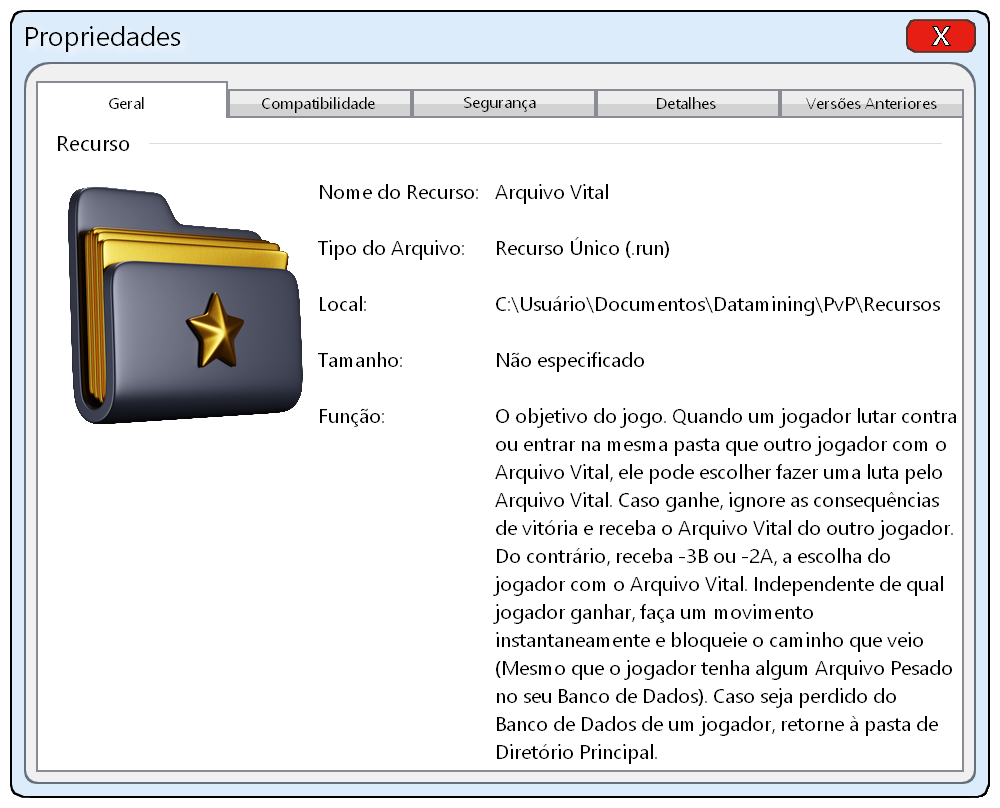
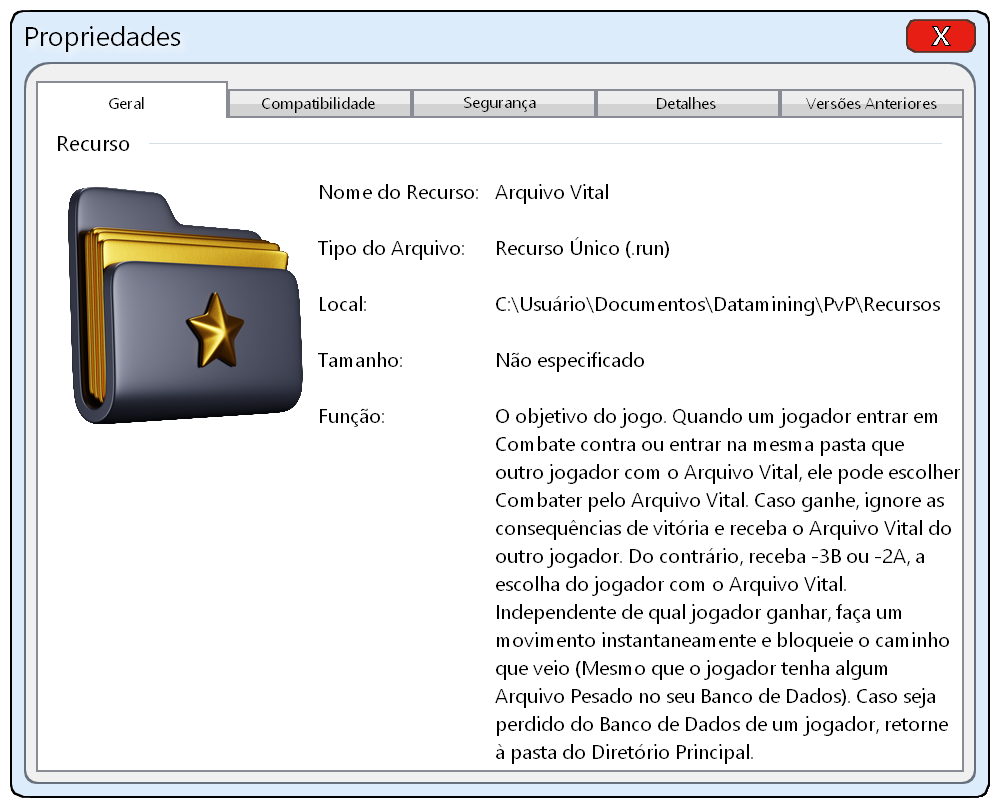
Add files via upload

Changed region(s): [[0.496, 0.495, 0.961, 0.9592]]

diff --git a/Regras - Datamining.html b/Regras - Datamining.html
@@ -199,7 +199,7 @@
                         <p>• <b>Objetivo:</b> Proteger o <strong>Arquivo Vital</strong>, que está na pasta de Diretório Principal, e levá-lo até sua Zona Segura. Vence o jogador que iniciar seu turno na própria pasta de Zona Segura com o Arquivo Vital no seu <strong>Banco de Dados</strong>.</p>
 						<p>• <b>Jogadores:</b> Um jogador é o <strong>Sistema Operacional (SO)</strong> sendo corrompido e os outros são <strong>Antivírus</strong> concorrentes entre si. <i><u>(Mínimo de 3 e máximo de 8 jogadores Antivírus).</u></i></p>
                         <p>• <b>SO:</b> Apenas o SO vê a <strong>Tabela Mestra de Diretórios (TMD)</strong>. Ele informa as direções possíveis e a distância após a escolha do jogador sobre qual caminho seguir.</p>
-						<p>• <b>Antivírus:</b> Os jogadores Antivírus têm como ações: realizar um movimento, usar um <strong>Recurso</strong>, usar seus <strong>Patches</strong>, realizar um <strong>Combate</strong> ou rodar uma <strong>Roleta</strong>. <i><u>(Não pode repetir uma ação no mesmo turno normalmente).</u></i></p>
+						<p>• <b>Antivírus:</b> Os jogadores Antivírus têm como ações: realizar um <strong>Movimento</strong>, usar um <strong>Recurso</strong>, usar seus <strong>Patches</strong>, realizar um <strong>Combate</strong> ou rodar uma <strong>Roleta</strong>. <i><u>(Não pode repetir uma ação no mesmo turno normalmente).</u></i></p>
                     </div>
                     <img src="Regras PvP (1).png" class="imagem-regra" onclick="expandirImagem(this.src)">
                 </div>
@@ -367,9 +367,9 @@
                 <div class="regra-com-imagem">
                     <div class="texto-regra">
                         <p>• <b>Objetivo:</b> Proteger o <strong>Arquivo Vital</strong>, que está na pasta de Diretório Principal, e levá-lo até sua Zona Segura. O grupo vence se todos iniciarem a rodada na Zona Segura com o Arquivo Vital em seu <strong>Banco de Dados</strong>.</p>
-						<p>• <b>Jogadores:</b> Um jogador é o <strong>Sistema Operacional (SO)</strong> sendo corrompido e os outros são um programa de <strong>Antivírus</strong> trabalhando juntos para resgatar o SO. (Mínimo de 3 e máximo de 8 jogadores além do SO)</p>
+						<p>• <b>Jogadores:</b> Um jogador é o <strong>Sistema Operacional (SO)</strong> sendo corrompido e os outros são um programa de <strong>Antivírus</strong> trabalhando juntos para resgatar o SO <i><u>(Mínimo de 3 e máximo de 8 jogadores Antivírus)</u></i>.</p>
 						<p>• <b>SO:</b> Apenas o SO vê a <strong>Tabela Mestra de Diretórios (TMD)</strong>. Ele informa as direções possíveis e a distância após a escolha do jogador sobre qual caminho seguir.</p>
-						<p>• <b>Antivírus:</b> Os jogadores Antivírus têm como ações: realizar um movimento, usar um <strong>Recurso</strong>, usar seus <strong>Patches</strong>, realizar um <strong>Jogo Cooperativo</strong> ou rodar uma <strong>Roleta</strong>. (Não pode repetir uma ação no mesmo turno normalmente)</p>
+						<p>• <b>Antivírus:</b> Os jogadores Antivírus têm como ações: realizar um <strong>Movimento</strong>, usar um <strong>Recurso</strong>, usar seus <strong>Patches</strong>, realizar um <strong>Jogo Cooperativo</strong> ou rodar uma <strong>Roleta</strong> <i><u>(Não pode repetir uma ação no mesmo turno normalmente)</u></i>.</p>
                     </div>
                     <img src="Regras Coop (1).png" class="imagem-regra" onclick="expandirImagem(this.src)">
                 </div>
@@ -386,21 +386,21 @@
                         <p>• <b>Turnos:</b> O jogo terá 120 turnos inicialmente.</p>
 						<p>• <b>Esgotamento:</b> Caso o grupo fique com ambos V e A abaixo de zero ou o número de turnos chegue a 0, o jogo acaba.</p>
 						<p>• <b>Exploração:</b> Com exceção das pastas de Zona Segura, do Diretório Principal, de Quarentena e de Downloads, encontrar uma pasta nunca explorada concede ao jogador uma <strong>Criptomoeda</strong>, que dá +1A ou +1B para o grupo a escolha do jogador que a encontrou.</p>
-						<p>• <b>Rodadas:</b> Durante uma rodada, cada jogador do grupo pode ter seu turno em qualquer ordem, mas cada jogador deve ter um turno por rodada. Ao final de cada rodada, é rolada a roleta de Arquivo Desconhecido.</p>
+						<p>• <b>Rodadas:</b> Durante uma rodada, cada jogador do grupo pode ter seu turno em qualquer ordem, mas cada jogador deve ter um turno por rodada. Ao final de cada rodada, é rolada a Roleta de Arquivo Desconhecido.</p>
                     </div>
                     <img src="Regras Coop (3).png" class="imagem-regra" onclick="expandirImagem(this.src)">
                 </div>
 				
 				<div class="regra-com-imagem">
                     <div class="texto-regra">
-                        <p>• <b>Datamine:</b> Com exceção das pastas de Zona Segura, do Diretório Principal, de Quarentena e de Downloads, existe uma Datamine escondida no mapa que, ao ser encontrada, revela para o grupo a parte do mapa em que o jogador que a encontrou está. Depois disso, ela é colocada escondida em outro lugar do mapa.</p>
+                        <p>• <b>Datamine:</b> Com exceção das pastas de Zona Segura, do Diretório Principal, de Quarentena e de Downloads, existe uma Datamine escondida no mapa que, ao ser encontrada, revela para o grupo o Pedaço do Mapa em que o jogador que a encontrou está. Depois disso, ela é colocada escondida em outro lugar do mapa.</p>
                     </div>
                     <img src="Regras Coop (4).png" class="imagem-regra" onclick="expandirImagem(this.src)">
                 </div>
 				
 				<div class="regra-com-imagem">
                     <div class="texto-regra">
-                        <p>• <b>Progressão:</b> A cada 10A, o jogador recebe +1V e um Patch e fica com 0A. Se seu A cair abaixo de 0, recebe -1V, um Bug, volta a 9A e perde 1 da contagem total de turnos.</p>
+                        <p>• <b>Progressão:</b> A cada 10A, o jogador recebe +1V e um Patch e fica com 0A. Se seu A cair abaixo de 0, recebe -1V, um Bug, volta a 9A e perde 1 da contagem total de turnos para cada jogador Antivírus.</p>
 						<div class="separador"></div>
                     </div>
                     <img src="Regras Coop (5).png" class="imagem-regra" onclick="expandirImagem(this.src)">
@@ -409,9 +409,9 @@
 				<div class="regra-com-imagem">
                     <div class="texto-regra">
                         <p>• <b>Patch:</b> Máximo de 3 Patches para o grupo <i><u>(Não pode ser usado para remover um elemento da roleta que já tenha sido duplicado)</u></i>.</p>
-							<p>- <strong>1 Patch:</strong> Duplicar ou remover a chance de algum elemento numa roleta; Bloquear ou desbloquear um caminho adjacente.</p>
-							<p>- <strong>2 Patches:</strong> Ganhar um movimento adicional neste turno; Remover 1 Bug; Ganhar 3 turnos.</p>
-							<p>- <strong>3 Patches:</strong> Fazer aparecer um Recurso a sua escolha, que já tenha sido usado por algum jogador durante esta partida, na pasta de Download; Ganhar +1V.</p>
+							<p>- <strong>1 Patch:</strong> Duplicar ou remover a chance de algum elemento numa roleta; Bloquear ou desbloquear um caminho adjacente; Ganhar 1 turno.</p>
+							<p>- <strong>2 Patches:</strong> Até 3 jogadores ganham um movimento adicional cada nesta rodada; Remover 1 Bug; Ganhar 3 turnos.</p>
+							<p>- <strong>3 Patches:</strong> Fazer aparecer um Recurso a sua escolha, que já tenha sido usado por algum jogador durante esta partida, na pasta de Download; Ganhar +1V; Ganhar 5 turnos.</p>
 						<div class="separador"></div>
                     </div>
                     <img src="Regras Coop (6).png" class="imagem-regra" onclick="expandirImagem(this.src)">
@@ -431,14 +431,14 @@
 				<div class="regra-com-imagem">
                     <div class="texto-regra">
                         <p>• <b>Recursos:</b> O Banco de Dados do grupo leva até 6 Recursos diferentes. Limite de 1 uso de Recurso por turno.</p>
-						<p>• <b>Jogo Cooperativo:</b> Quando dois ou mais jogadores terminam a rodada na mesma pasta, é iniciado um jogo Cooperativo apenas entre eles. Caso vençam, recebem +3A ou +3B, a escolha do grupo, e uma Datamine Portátil. Caso percam, recebem um Bug e -2B ou -2A, escolhido pelo SO. Estes mesmos jogadores não podem ter outro jogo Cooperativo exclusivamente entre si até que já tenha acontecido outro jogo entre qualquer outra combinação de jogadores ou com o grupo inteiro.</p>
+						<p>• <b>Jogo Cooperativo:</b> Quando dois ou mais jogadores terminam a rodada na mesma pasta, é iniciado um jogo Cooperativo apenas entre eles. Caso vençam, recebem +3A ou +3B, a escolha do grupo, e uma Datamine Portátil. Caso percam, recebem -2B ou -2A, escolhido pelo SO, e um Bug. Estes mesmos jogadores não podem ter outro jogo Cooperativo exclusivamente entre si até que já tenha acontecido outro jogo entre qualquer outra combinação de jogadores ou com o grupo inteiro.</p>
                     </div>
                     <img src="Regras Coop (8).png" class="imagem-regra" onclick="expandirImagem(this.src)">
                 </div>
 
                 <div class="texto-regra">
                     <p>• <b>Diretório Principal:</b> É disfarçada de uma Pasta Vazia e é tratada como tal até o grupo encontrar todas as Chaves de Acesso e estiver com o V necessário ou acima para acessá-la.</p>
-					<p>• <b>Empate:</b> No caso de demora ou indecisão do resultado de alguma roleta ou escolha, o SO pode, a qualquer momento, interromper a decisão e rodar a roleta de Quarentena para o grupo.</p>
+					<p>• <b>Empate:</b> No caso de demora ou indecisão do resultado de alguma roleta ou escolha, o SO pode decidir encerrar a decisão e rodar a roleta de Quarentena para o grupo.</p>
                 </div>
             </div>
 
@@ -453,10 +453,10 @@
 						<li>Sem caminhos bloqueados no início do jogo.</li>
 						<li>Limite de uso de 1 Recurso do grupo por turno.</li>
 						<li>O SO informará a distância que deslocará, após o jogador escolher um caminho, e quais caminhos poderão ser seguidos da pasta que o jogador está.</li>
-						<li>Zonas Seguras estão sempre nos mesmos locais do mapa e são informadas aos seus respectivos jogadores onde iniciam o jogo.</li>
+						<li>No início do jogo, o grupo é informado sobre onde estão todas as pastas de Zonas Seguras do mapa e recebe as coordenadas de onde cada jogador inicia o jogo.</li>
 						<li>Ao invés de escolher entre ganhar +A ou +B, seja por vitórias ou encontrar criptomoedas, o grupo recebe ambos.</li>
 						<li>Ao final de cada rodada, a roleta de Arquivo Desconhecido é rolada.</li>
-						<li>Há 1 pasta de Quarentena pelo mapa.</li>
+						<li>Há no mínimo 1 e no máximo 3 pastas de Quarentena pelo mapa.</li>
 						<li>Adquirir uma nova Zona Segura custa 6B.</li>
 						<li>Recursos à venda na pasta de Downloads custam -2B que seus preços normais (Mínimo de 1B).</li>
 					</div>
@@ -472,9 +472,9 @@
 						<li>Alguns caminhos podem começar o jogo já bloqueados.</li>
 						<li>Limite de uso de 1 Recurso do grupo por turno.</li>
 						<li>O SO informará a distância que deslocará, após o jogador escolher um caminho, e quais caminhos poderão ser seguidos da pasta que o jogador está.</li>
-						<li>Zonas Seguras estão sempre nos mesmos locais do mapa e são informadas aos seus respectivos jogadores onde iniciam o jogo.</li>
+						<li>No início do jogo, o grupo recebe as coordenadas de onde cada jogador inicia o jogo, porém não é informado sobre onde estão as demais pastas de Zonas Seguras do mapa.</li>
 						<li>Ao final de cada rodada, a roleta de Arquivo Desconhecido é rolada.</li>
-						<li>Há 2 pastas de Quarentena pelo mapa e o jogador fica 1 turno preso nelas.</li>
+						<li>Há no mínimo 2 e no máximo 5 pastas de Quarentena pelo mapa e o jogador fica 1 turno preso nelas.</li>
 						<li>Adquirir uma nova Zona Segura custa 8B.</li>
 						<li>Recursos à venda na pasta de Downloads custam seus preços normais.</li>
 					</div>
@@ -491,10 +491,10 @@
 						<li>Todas as perdas de A ou B são duplicadas.</li>
 						<li>Limite de uso de 1 Recurso do grupo por rodada.</li>
 						<li>O SO não informará a distância que deslocará, após o jogador escolher um caminho, nem quais caminhos poderão ser seguidos da pasta que o jogador está.</li>
-						<li>Zonas Seguras, apesar de estarem sempre nos mesmos locais do mapa, não serão informadas aos seus respectivos jogadores onde iniciam o jogo.</li>
+						<li>O grupo não é informado sobre onde estão as pastas de Zonas Seguras do mapa, nem as coordenadas de onde cada jogador inicia o jogo.</li>
 						<li>Caminhos diagonais não são necessariamente em 45º.</li>
 						<li>Ao final de cada rodada, a roleta de Quarentena é rolada.</li>
-						<li>Há 4 pastas de Quarentena pelo mapa e o jogador fica 2 turnos preso nelas.</li>
+						<li>Há no mínimo 4 pastas de Quarentena pelo mapa e o jogador fica 1 turno preso nelas.</li>
 						<li>Adquirir uma nova Zona Segura custa 12B.</li>
 						<li>Recursos à venda na pasta de Downloads custam +3B que seus preços normais.</li>
 					</div>

diff --git a/Pastas - Datamining.html b/Pastas - Datamining.html
@@ -202,7 +202,7 @@
                     <div class="conteudo-dificuldade">
                         <div class="subtitulo-dif">Zona Segura</div>
 							<div class="texto-regra">
-							<p>Onde cada jogador inicia o jogo. Seus locais no mapa são sempre os mesmos <i>(Exceto no Modo Extremo)</i>, variando apenas qual é a pasta inicial de cada jogador. São informados onde estão no mapa aos seus respectivos jogadores <i>(Exceto nos Modos Difícil e Extremo)</i>. Independente de quantos jogadores tenham no jogo, sempre há 8 pastas de Zona Segura espalhadas pelo mapa, uma para cada cor de jogador. Toda vez que um jogador passar pela sua própria Zona Segura, recebe +2B. Caso jogador entre na pasta de Zona Segura de outro jogador, deve pagar 2B ao dono da pasta. Caso um jogador encontre uma pasta de Zona Segura que não pertença a nenhum jogador, ele pode pagar 5B para trocar a sua pasta de Zona Segura por esta, recebendo também uma parte do mapa com suas pastas adjacentes, do contrário, recebe +2A. Um jogador com o Arquivo Vital não pode adquirir uma nova pasta de Zona Segura, enquanto já possuir uma. Caso um jogador esteja em sua pasta de Zona Segura e outro jogador entre nela, o dono da pasta pode escolher entre lutar contra o outro jogador ou não. Caso escolha não lutar, deve dar um Recurso seu para o outro jogador e não recebe o pagamento do outro jogador por entrar em sua Zona Segura <i>(Este efeito não imuniza o jogador dentro de sua Zona Segura de entrar em luta com outros jogadores por outros métodos)</i>.</p>
+							<p>Onde cada jogador inicia o jogo. Seus locais no mapa são sempre informados a todos os jogadores <i>(Exceto nos Modos Difícil e Extremo)</i>, variando apenas qual é a pasta inicial de cada jogador, que é informada secretamente para cada um <i>(Exceto no Modo Extremo)</i>. Independente de quantos jogadores tenham no jogo, sempre há 8 pastas de Zona Segura espalhadas pelo mapa. Toda vez que um jogador passar pela sua própria Zona Segura, recebe +2B. Caso jogador entre na pasta de Zona Segura de outro jogador, deve pagar 2B ao dono da pasta. Caso um jogador encontre uma pasta de Zona Segura que não pertença a nenhum jogador, ele pode pagar 5B para trocar a sua pasta de Zona Segura por esta, recebendo também um Pedaço do Mapa de onde esta pasta está, do contrário, recebe +2A. Um jogador com o Arquivo Vital não pode adquirir uma nova pasta de Zona Segura, enquanto já possuir uma. Caso um jogador esteja em sua pasta de Zona Segura e outro jogador entre nela, o dono da pasta pode escolher entre entrar em Combate contra o outro jogador ou não. Caso escolha não entrar em Combate, deve dar um Recurso seu para o outro jogador e também não recebe o pagamento do outro jogador por entrar em sua Zona Segura <i>(Este efeito não imuniza o jogador dentro de sua Zona Segura de entrar em Combate com outros jogadores por outros métodos)</i>.</p>
 						</div>
                     </div>
                     <img src="Pasta (1).png" class="imagem-regra" onclick="expandirImagem(this.src)">
@@ -231,7 +231,7 @@
                     <div class="conteudo-dificuldade">
                         <div class="subtitulo-dif">Downloads</div>
 							<div class="texto-regra">
-							<p>Os jogadores podem usar seus Bits para comprar Recursos. Toda vez que um jogador entrar nesta pasta, são aleatorizados entre 4 a 7 Recursos que estão à venda. Recursos melhores aparecem conforme o jogador progride pelo jogo. Os Recursos à venda e seus efeitos somente aparecem para o jogador que está comprando, porém são mostrados aos outros jogadores a imagem representativa dos Recursos comprados. Máximo de 2 Recursos podem ser comprados por turno.</p>
+							<p>Os jogadores podem usar seus Bits para comprar Recursos. A cada vez que um jogador entrar nesta pasta, são aleatorizados entre 4 a 7 Recursos que estão à venda. Recursos melhores aparecem conforme o jogador progride pelo jogo. Os Recursos à venda e seus efeitos somente aparecem para o jogador que está comprando, porém são mostrados aos outros jogadores apenas o ícone dos Recursos comprados, em seu Banco de Dados. Máximo de 2 Recursos podem ser comprados por turno numa mesma pasta de Download.</p>
 						</div>
                     </div>
                     <img src="Pasta (4).png" class="imagem-regra" onclick="expandirImagem(this.src)">
@@ -261,7 +261,7 @@
                     <div class="conteudo-dificuldade">
                         <div class="subtitulo-dif">Chave de Acesso</div>
 							<div class="texto-regra">
-							<p>O jogador recebe secretamente uma pista de onde está a pasta do Diretório Principal <i>(É tratada como uma Pasta Vazia, durante o turno do jogador que a encontrou)</i>. A cada final de rodada em que algum jogador tenha encontrado pelo menos uma pasta de Chave de Acesso, o SO informa a todos quantos jogadores possuem Chaves de Acesso e quantas cada um possui, sem informar quais jogadores as têm. Encontrando todas, permite ao jogador encontrar o Diretório Principal.</p>
+							<p>O jogador recebe secretamente uma pista de onde está a pasta do Diretório Principal <i>(É tratada como uma Pasta Vazia, durante o turno do jogador que a encontrou)</i>. A cada final de rodada em que algum jogador tenha encontrado pelo menos uma pasta de Chave de Acesso, o SO informa a todos quantos jogadores possuem Chaves de Acesso e quantas cada um possui, sem informar quais jogadores as têm. Encontrando todas, permite ao jogador encontrar a pasta do Diretório Principal.</p>
 						</div>
                     </div>
                     <img src="Pasta (7).png" class="imagem-regra" onclick="expandirImagem(this.src)">
@@ -271,7 +271,7 @@
                     <div class="conteudo-dificuldade">
                         <div class="subtitulo-dif">Diretório Principal</div>
 							<div class="texto-regra">
-							<p>É disfarçada de alguma outra Pasta Vazia até o jogador encontrar todas as Chaves de Acesso e ter V necessário para acessá-la. É onde está o Arquivo Vital.</p>
+							<p>É disfarçada de alguma outra Pasta Vazia até o jogador encontrar todas as Chaves de Acesso e ter V necessário para acessá-la. É onde inicialmente está o Arquivo Vital.</p>
 						</div>
                     </div>
                     <img src="Pasta (8).png" class="imagem-regra" onclick="expandirImagem(this.src)">
@@ -296,7 +296,7 @@
                     <div class="conteudo-dificuldade">
                         <div class="subtitulo-dif">Zona Segura</div>
 							<div class="texto-regra">
-							<p>Onde cada jogador inicia o jogo. Seus locais no mapa são sempre os mesmos, variando apenas qual é a pasta inicial de cada jogador. Todos os jogadores são informados onde estão as pastas de cada um no mapa <i>(Exceto no Modo Difícil)</i>. Independente de quantos jogadores tenham no jogo, sempre há 8 pastas de Zona Segura no mapa. Toda vez que um jogador passar por alguma Zona Segura pertencente ao grupo que não seja da sua mesma cor, o grupo recebe +2B. Caso um jogador encontre uma pasta de Zona Segura que não pertença ao grupo, ele pode pagar 8B para trocar a sua Zona Segura por esta, recebendo também uma parte do mapa com suas pastas adjacentes, do contrário, recebe +3A. Enquanto o grupo possuir o Arquivo Vital, todas as pastas de Zona Segura são dadas como perdidas e apenas uma delas é escolhida aleatoriamente para ser a única saída do grupo. Enquanto possuírem o Arquivo Vital, o grupo não pode adquirir uma nova pasta de Zona Segura e, caso esta seja perdida por algum efeito, apenas altera a Zona Segura para outra escolhida aleatoriamente.</p>
+							<p>Onde cada jogador inicia o jogo. Seus locais no mapa não são informados aos jogadores <i>(Exceto no Modo Fácil)</i>, mas as coordenadas das pastas iniciais de cada jogador são <i>(Exceto no Modo Difícil)</i>. Independente de quantos jogadores tenham no jogo, sempre há 8 pastas de Zona Segura no mapa. Toda vez que um jogador passar por alguma Zona Segura pertencente ao grupo que não seja da sua mesma cor, o grupo recebe +2B <i>(Se a pasta de Zona Segura e o jogador forem da mesma cor, o grupo não recebe nada)</i>. Caso um jogador encontre uma pasta de Zona Segura que não pertença ao grupo, ele pode pagar 8B para trocar a sua Zona Segura por esta, recebendo também um Pedaço do Mapa com suas pastas adjacentes, do contrário, recebe +3A. Enquanto o grupo possuir o Arquivo Vital, todas as pastas de Zona Segura são dadas como perdidas e apenas uma delas é escolhida aleatoriamente para ser a única saída do grupo. Enquanto possuírem o Arquivo Vital, o grupo não pode adquirir uma nova pasta de Zona Segura e, caso esta seja perdida por algum efeito, apenas altera a Zona Segura para outra escolhida aleatoriamente.</p>
 						</div>
                     </div>
                     <img src="Pasta (1).png" class="imagem-regra" onclick="expandirImagem(this.src)">
@@ -325,7 +325,7 @@
                     <div class="conteudo-dificuldade">
                         <div class="subtitulo-dif">Downloads</div>
 							<div class="texto-regra">
-							<p>O grupo pode usar seus Bits para comprar Recursos. Toda vez que um jogador entrar nesta pasta, são aleatorizados entre 4 a 7 Recursos que estão à venda. Recursos melhores aparecem conforme o grupo progride durante o jogo. Máximo de 2 Recursos podem ser comprados por turno.</p>
+							<p>O grupo pode usar seus Bits para comprar Recursos. A cada vez que um jogador entrar nesta pasta, são aleatorizados entre 4 a 7 Recursos que estão à venda. Recursos melhores aparecem conforme o grupo progride durante o jogo. Máximo de 2 Recursos podem ser comprados por turno.</p>
 						</div>
                     </div>
                     <img src="Pasta (4).png" class="imagem-regra" onclick="expandirImagem(this.src)">
@@ -335,7 +335,7 @@
                     <div class="conteudo-dificuldade">
                         <div class="subtitulo-dif">Jogo Cooperativo</div>
 							<div class="texto-regra">
-							<p>O grupo roda a roleta Cooperativa. Caso ganhem o jogo, recebem +3A ou +3B, a escolha do grupo, além de 1 Patch e 1 Datamine Portátil. Caso percam, recebem -3B, -3A ou se perdem um Recurso aleatoriamente, a escolha do SO, e 1 Bug.</p>
+							<p>O grupo roda a roleta Cooperativa. Caso ganhem o jogo, recebem +3A ou +3B, a escolha do grupo, além de 1 Patch e 1 Datamine Portátil. Caso percam, recebem -3B, -3A ou perdem um Recurso aleatoriamente, a escolha do SO, além de 1 Bug.</p>
 						</div>
                     </div>
                     <img src="Pasta (5)c.png" class="imagem-regra" onclick="expandirImagem(this.src)">
@@ -355,7 +355,7 @@
                     <div class="conteudo-dificuldade">
                         <div class="subtitulo-dif">Chave de Acesso</div>
 							<div class="texto-regra">
-							<p>O grupo recebe uma pista de onde está a pasta do Diretório Principal. Encontrando todas, permite ao grupo encontrar o Diretório Principal.</p>
+							<p>O grupo recebe uma pista de onde está a pasta do Diretório Principal. Encontrando todas, permite ao grupo encontrar a pasta do Diretório Principal.</p>
 						</div>
                     </div>
                     <img src="Pasta (7).png" class="imagem-regra" onclick="expandirImagem(this.src)">
@@ -365,7 +365,7 @@
                     <div class="conteudo-dificuldade">
                         <div class="subtitulo-dif">Diretório Principal</div>
 							<div class="texto-regra">
-							<p>É disfarçada de alguma outra pasta até o grupo encontrar todas as Chaves de Acesso e ter V necessário para acessá-la. Local onde está o Arquivo Vital.</p>
+							<p>É disfarçada de alguma outra pasta até o grupo encontrar todas as Chaves de Acesso e ter V necessário para acessá-la. É onde inicialmente está o Arquivo Vital.</p>
 						</div>
                     </div>
                     <img src="Pasta (8).png" class="imagem-regra" onclick="expandirImagem(this.src)">
